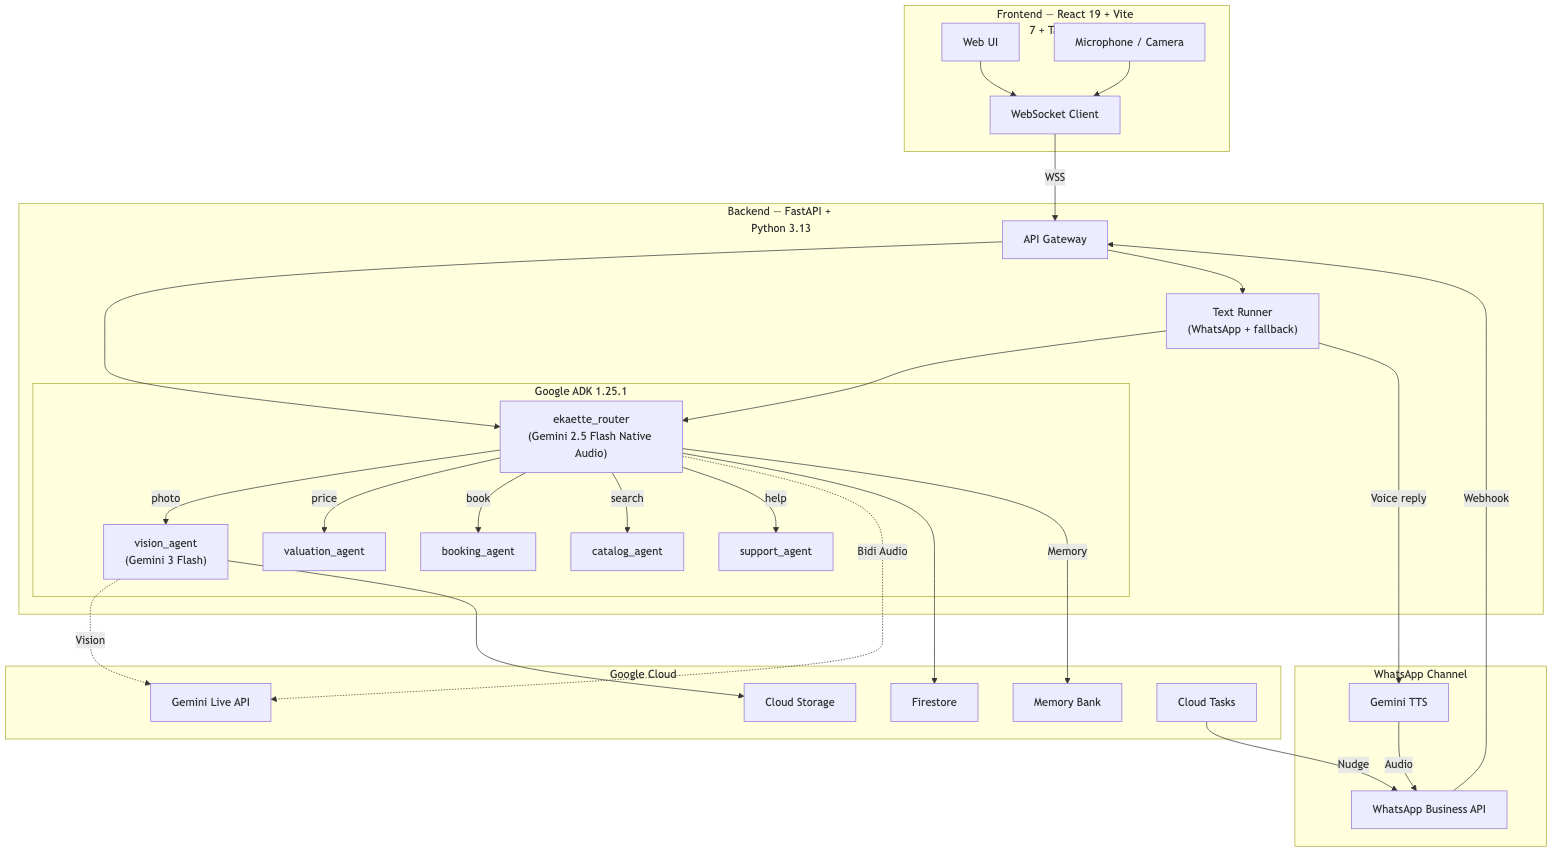
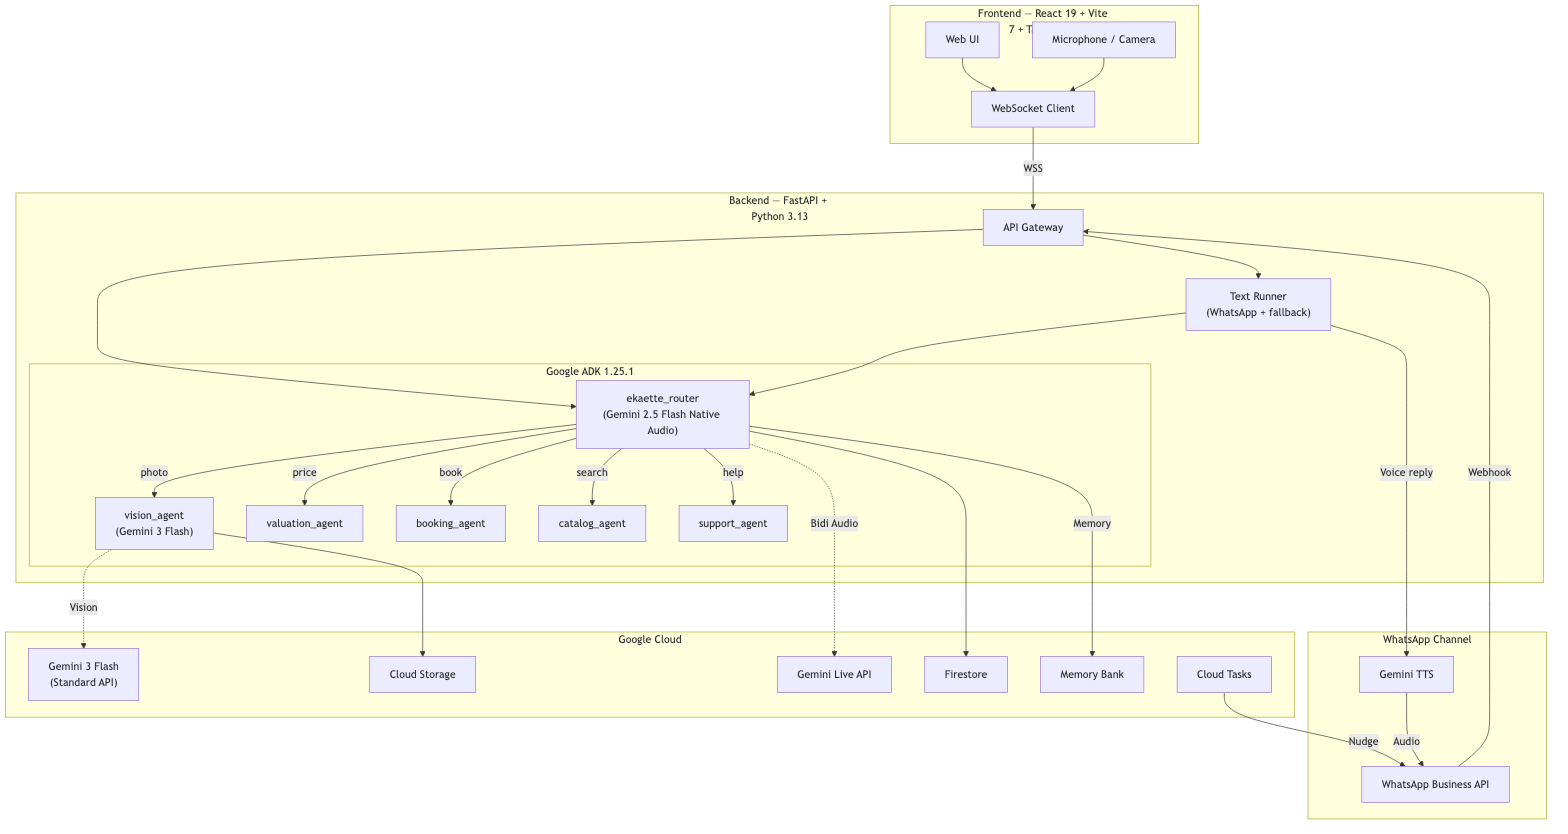
Fix vision_agent diagram edge (Standard API, not Live), remove hardcoded test counts

diff --git a/README.md b/README.md
@@ -85,6 +85,7 @@ graph TB
 
     subgraph "Google Cloud"
         LIVE["Gemini Live API"]
+        G3F["Gemini 3 Flash<br/>(Standard API)"]
         FS["Firestore"]
         CS["Cloud Storage"]
         MB["Memory Bank"]
@@ -104,7 +105,7 @@ graph TB
     ROOT -->|"search"| CA
     ROOT -->|"help"| SA
     ROOT -.->|"Bidi Audio"| LIVE
-    VA -.->|"Vision"| LIVE
+    VA -.->|"Vision"| G3F
     ROOT --> FS
     VA --> CS
     ROOT -->|"Memory"| MB
@@ -284,11 +285,11 @@ Open [http://localhost:5173](http://localhost:5173) — select an industry, then
 ### Running Tests
 
 ```bash
-# Backend (1,478 tests)
+# Backend
 source .venv/bin/activate
 pytest tests/ -v
 
-# Frontend (312 tests)
+# Frontend
 cd frontend
 pnpm exec vitest run
 ```
@@ -376,7 +377,7 @@ ekaette/
 │       └── types/            # TypeScript interfaces (14 ServerMessage types)
 ├── scripts/                  # Registry CLI, deploy, release gates
 ├── terraform/                # GCP Infrastructure as Code
-├── tests/                    # Backend test suite (1,478 tests)
+├── tests/                    # Backend test suite
 │   └── fixtures/registry/    # Industry templates, companies, products, knowledge
 ├── main.py                   # FastAPI application entry
 ├── Dockerfile                # Multi-stage build (Node + Python + uv)
